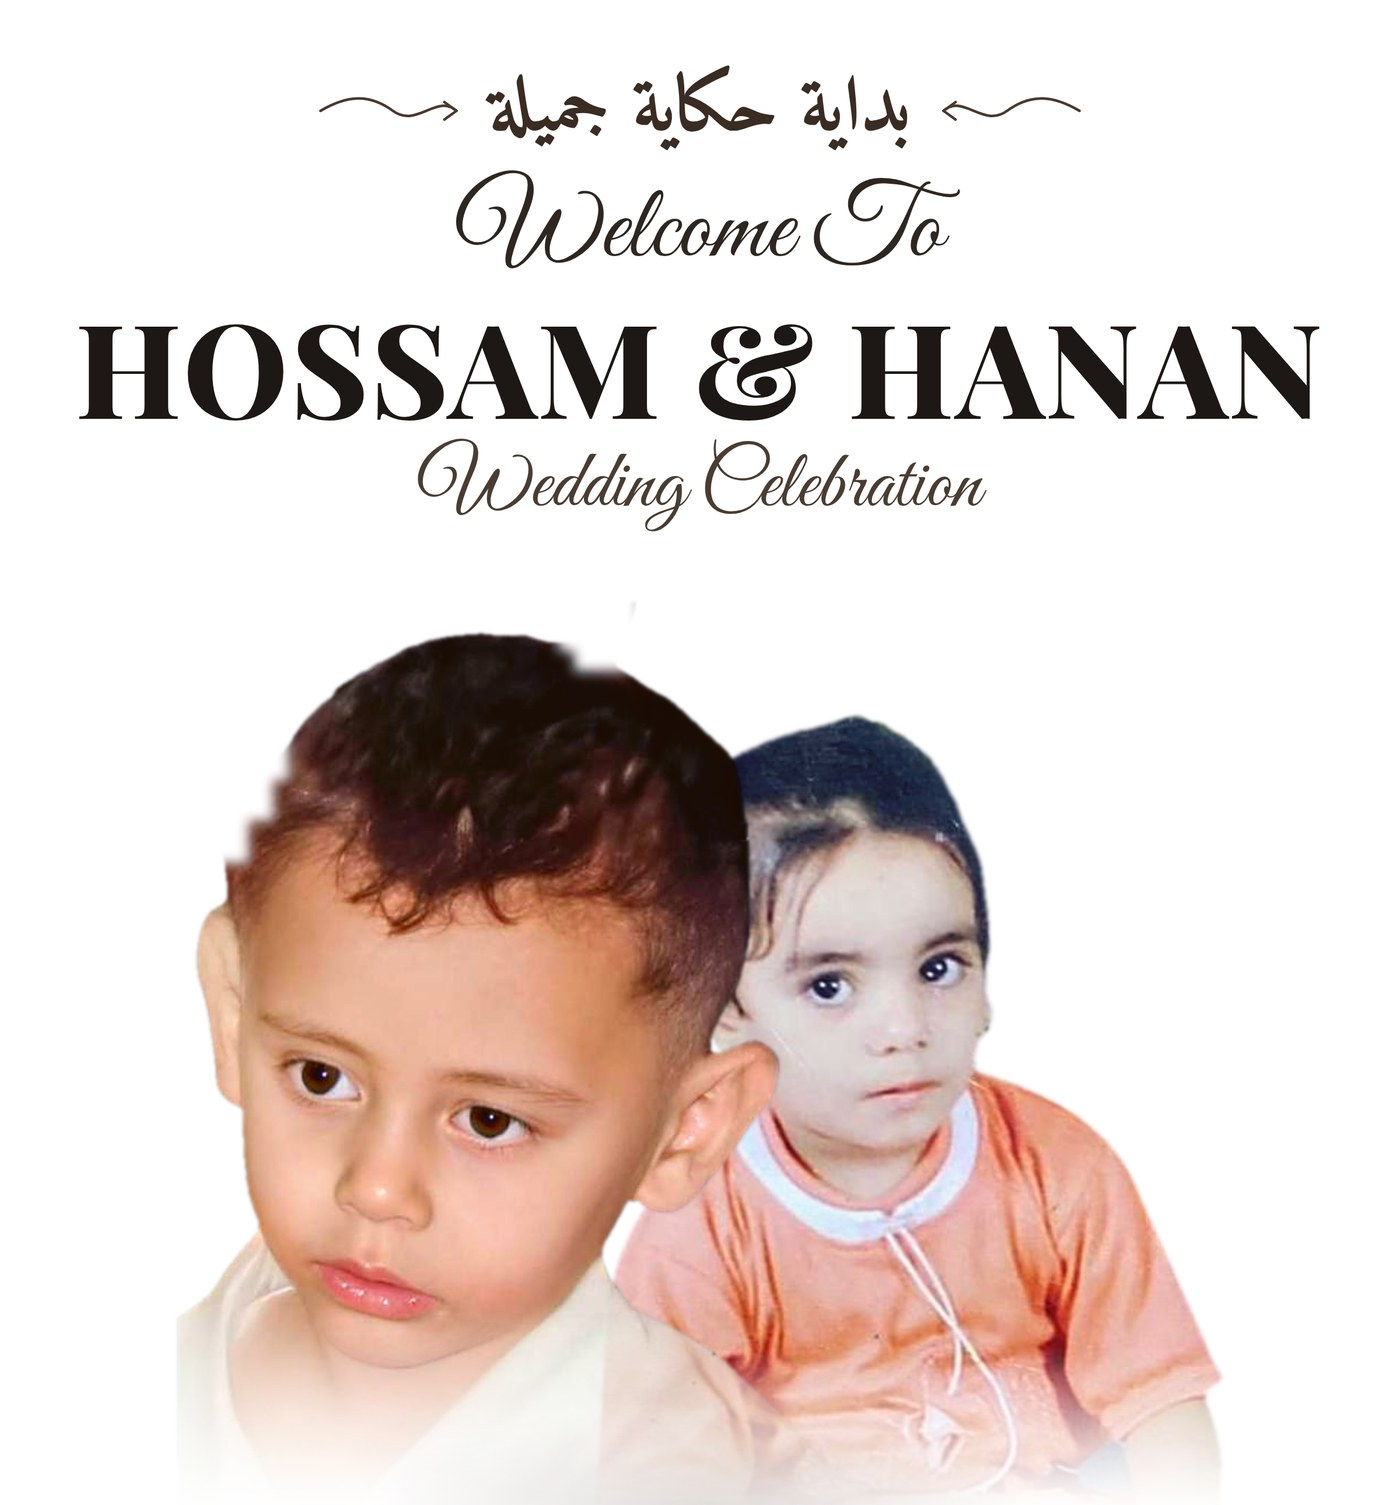
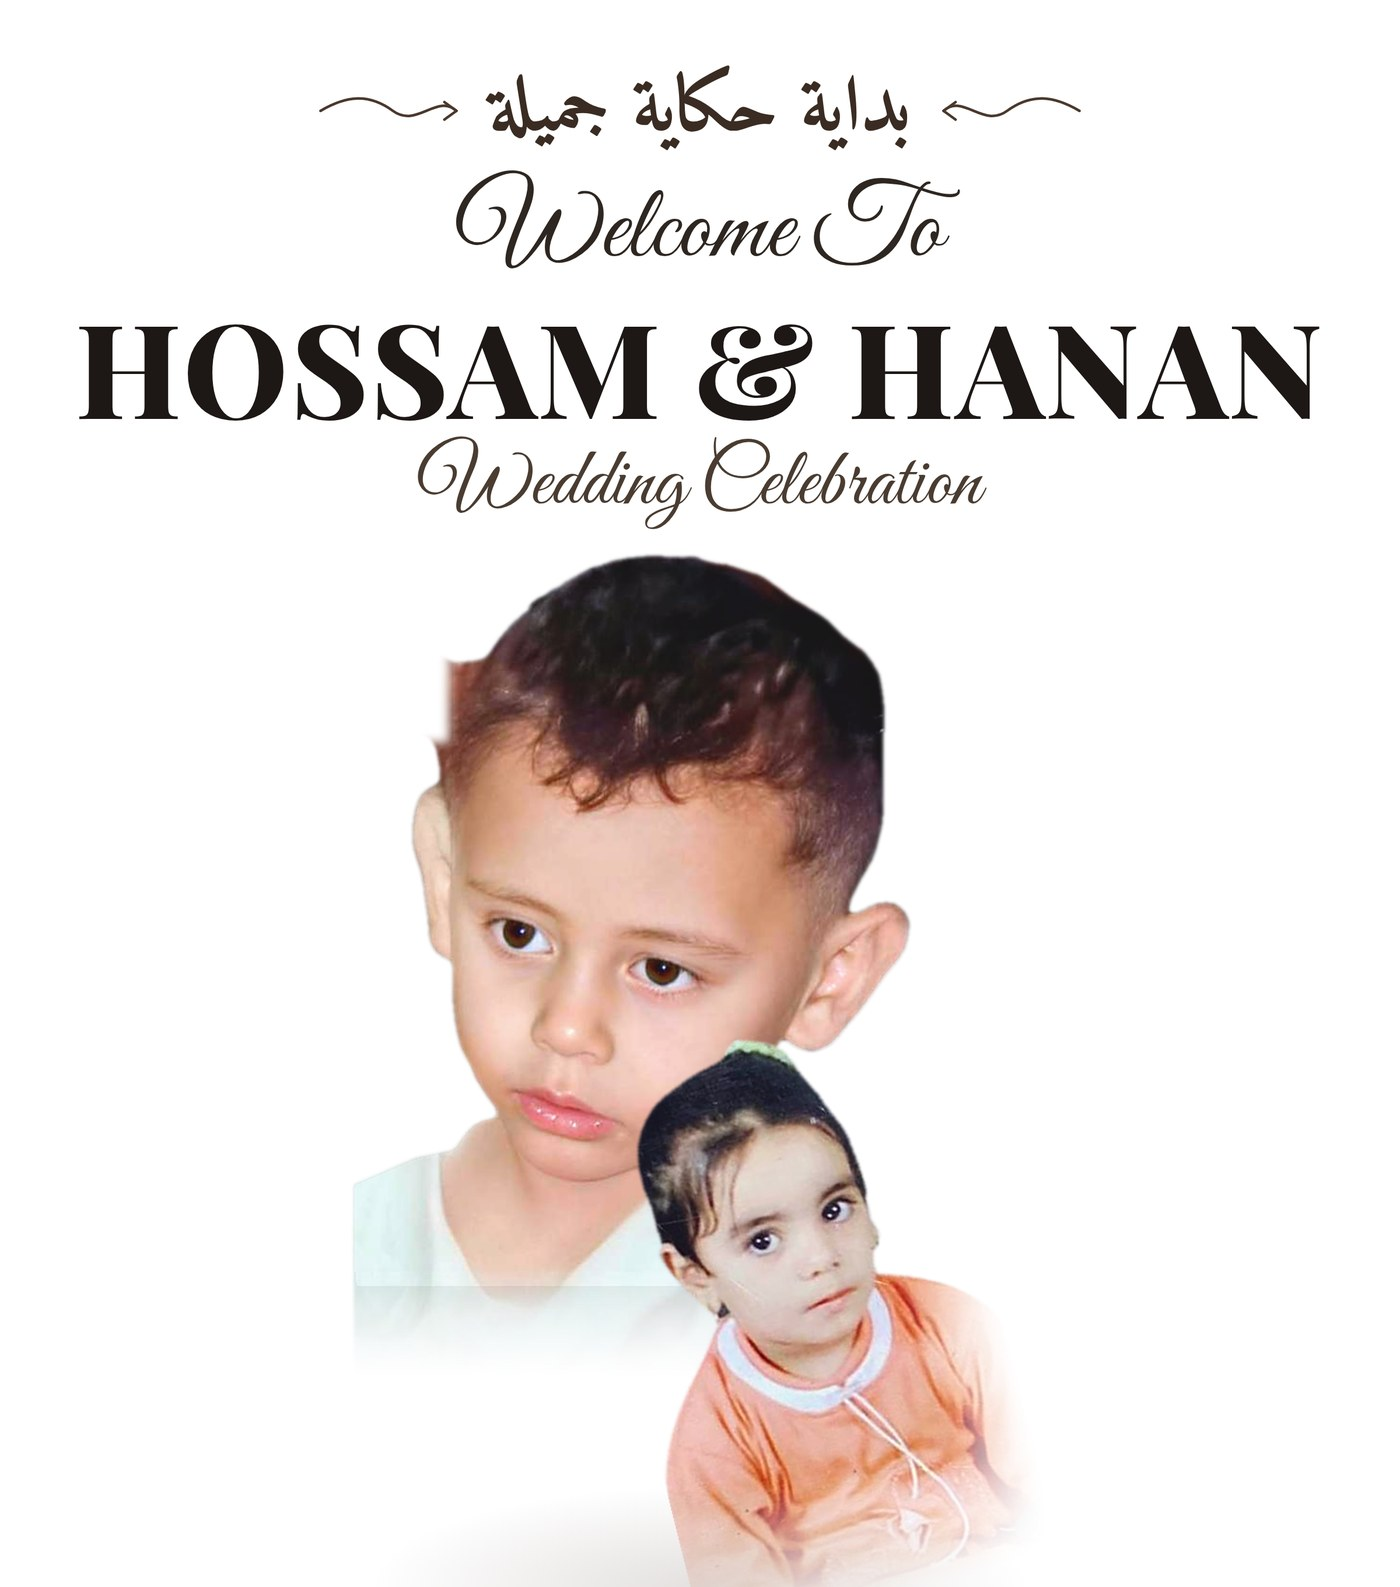
Pose the pair as an embrace on the welcome board
The two children read as two portraits set side by side rather than the
embrace in the reference. Reposed them so she nestles into his shoulder.

That needed a torso for her to lean against, and u2net could not supply one:
his white t-shirt sits against a light background, so the model dropped it
entirely and returned a head-only matte. His shirt is now traced by hand as a
polygon and unioned with the model's head mask, then faded out at the chest so
it melts into the board.

With a body available, she is scaled up to a comparable size, rotated 14
degrees so she tilts toward him, and composited in front at chest height with
a deep overlap. Her right edge is feathered as well as her lower body, so the
crop through her sleeve does not end on a hard line. The pair is now baked as
one image, which keeps the two locked in pose at any board size.

Worth saying plainly: neither source photo has an arm around anyone, so this
reads as her leaning into him, not as arms wrapped around each other. That is
as far as these two photographs go without inventing limbs.

Claude-Session: https://claude.ai/code/session_017XBYjv5fmVjSPt8QfvdnGh

diff --git a/index.html b/index.html
@@ -167,7 +167,7 @@
       <div class="section__orn reveal" aria-hidden="true"><i></i>✦<i></i></div>
 
       <figure class="board__frame reveal" data-delay="1">
-        <img src="assets/img/welcome-board.jpg" alt="حسام و حنان وهما صغيران" loading="lazy" width="1400" height="1505">
+        <img src="assets/img/welcome-board.jpg" alt="حسام و حنان وهما صغيران، حنان متسندة على كتف حسام" loading="lazy" width="1400" height="1587">
         <figcaption>صورهم وهما صغيّرين … ومين كان يعرف إن الحكاية هتوصل لكده 🤍</figcaption>
       </figure>
     </div>
